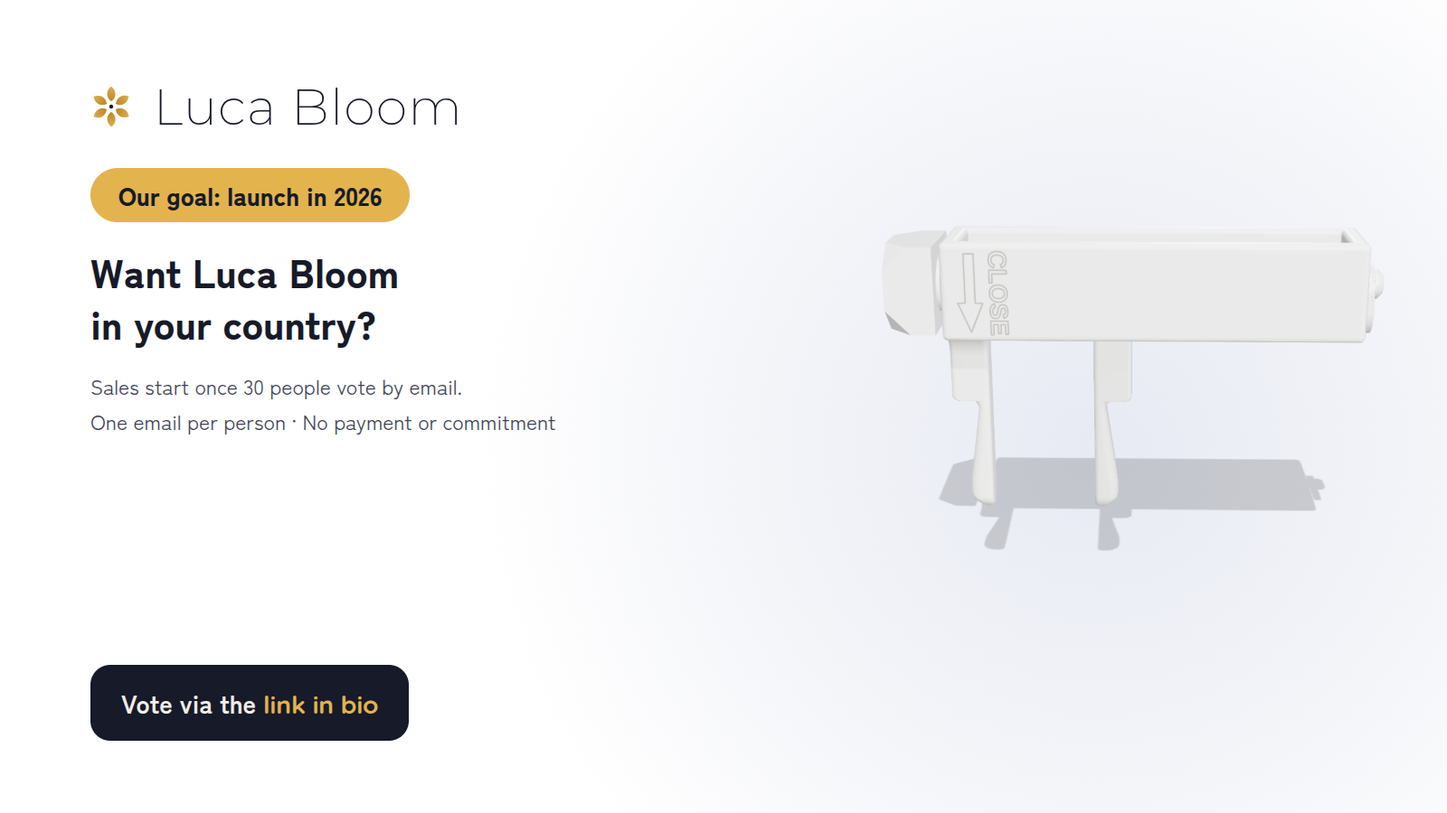
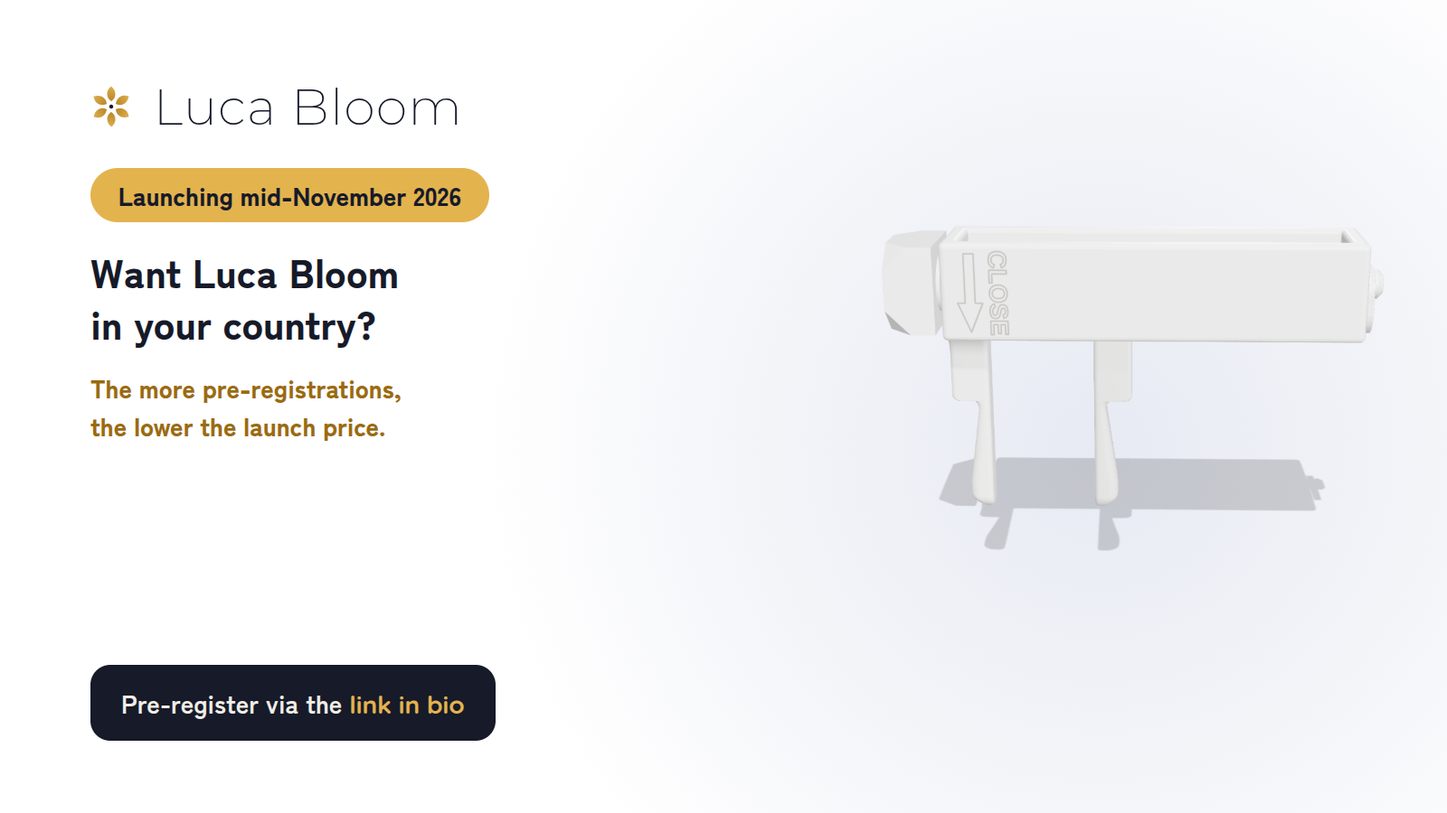
発売前LP：メールアプリが開かない環境向けに Gmail・Outlook・アドレスを併記し、「登録が多いほど発売価格が下がる」を目立つ一文に。告知画像も同じ文言に
Claude-Session: https://claude.ai/code/session_016YenGTG3x62jvD6ZRQeA6d

Changed region(s): [[0.0625, 0.4667, 0.375, 0.56], [0.0625, 0.8089, 0.3438, 0.9333], [0.0625, 0.1867, 0.3438, 0.28]]

diff --git a/ca/fr/index.html b/ca/fr/index.html
@@ -3,7 +3,7 @@
 <head>
 <meta charset="utf-8">
 <meta name="viewport" content="width=device-width, initial-scale=1, viewport-fit=cover">
-<meta http-equiv="Content-Security-Policy" content="default-src 'none'; script-src 'self'; style-src 'self' 'sha256-jr+99oMVcAtKtIUlC/3aKn5EhZTkRbJaXBN0lEQV9qo=' 'sha256-TT/tbT92qH6UzA/f+xUOgWA0x57Y7BPZlE8Y8ElzfiY=' 'sha256-i47gCdfb3YEuL87xKfQ+rVjdfSb1UfRIlp/G7Hq3QyM='; img-src 'self'; font-src 'self'; connect-src 'self'; manifest-src 'self'; media-src 'none'; frame-src 'none'; worker-src 'none'; object-src 'none'; base-uri 'none'; form-action 'none'; upgrade-insecure-requests; require-trusted-types-for 'script'; trusted-types 'none'">
+<meta http-equiv="Content-Security-Policy" content="default-src 'none'; script-src 'self'; style-src 'self' 'sha256-jr+99oMVcAtKtIUlC/3aKn5EhZTkRbJaXBN0lEQV9qo=' 'sha256-TT/tbT92qH6UzA/f+xUOgWA0x57Y7BPZlE8Y8ElzfiY=' 'sha256-vydwBAU0UPAaQI11OmLRjDPcPjJRwpMx7loPP8yBWZM='; img-src 'self'; font-src 'self'; connect-src 'self'; manifest-src 'self'; media-src 'none'; frame-src 'none'; worker-src 'none'; object-src 'none'; base-uri 'none'; form-action 'none'; upgrade-insecure-requests; require-trusted-types-for 'script'; trusted-types 'none'">
 <meta name="referrer" content="strict-origin-when-cross-origin">
 <title>Luca Bloom | Outil de soin du prépuce, ouverture jusqu’à 70 mm</title>
 <meta name="description" content="Luca Bloom est un outil de soin du prépuce. Tournez la molette : les bras s’ouvrent en douceur jusqu’à 70 mm et restent exactement là où vous vous arrêtez, même quand vous lâchez. Emballage discret. Sur Amazon.ca dès la mi-novembre 2026.">
@@ -285,7 +285,11 @@ body{letter-spacing:.01em}
 .wl-bar::-moz-progress-bar{background:var(--gold);border-radius:99px}
 .wl-n{margin:0;display:flex;justify-content:space-between;gap:10px;flex-wrap:wrap;font-size:12.5px;color:var(--on-navy-muted)}
 .wl-n span:first-child{font-weight:700;color:var(--on-navy)}
-.wl-note{margin:12px 0 0;font-size:13px;line-height:1.7;color:var(--on-navy-muted);text-align:left}
+.wl-deal{margin:14px 0 0;font-size:17px;line-height:1.5;font-weight:900;color:var(--gold)}
+.wl-note{margin:6px 0 0;font-size:12.5px;line-height:1.6;color:var(--on-navy-muted)}
+.wl-alt{margin:10px 0 0;font-size:12.5px;line-height:1.7;color:var(--on-navy-muted);text-align:center}
+.wl-alt a{color:var(--on-navy);font-weight:700;text-decoration:underline;text-underline-offset:2px}
+.wl-addr{font-family:var(--font-en);font-weight:700;color:var(--on-navy);-webkit-user-select:all;user-select:all;overflow-wrap:anywhere}
 .wl-share{margin-top:14px;padding-top:12px;border-top:1px solid var(--navy-line)}
 .wl-share p{margin:0;font-size:13.5px;font-weight:700;color:var(--on-navy)}
 .wl-share div{margin-top:8px;display:flex;flex-wrap:wrap;justify-content:center;gap:8px}
@@ -359,11 +363,13 @@ body{letter-spacing:.01em}
         <p class="wl-count"><b>0</b><span>/ 30 préinscrits</span></p>
         <progress class="wl-bar" max="30" value="0" aria-label="0 préinscrits sur 30">0 préinscrits sur 30</progress>
         <p class="wl-n"><span>Encore 30 pour notre objectif avant le lancement</span><span>Nombre au 6 octobre 2026</span></p>
-        <p class="wl-note">Luca Bloom sera en vente sur Amazon aux États-Unis, au Canada et au Mexique à la mi-novembre 2026. Envoyez-nous un seul courriel pour vous préinscrire : nous vous écrirons une fois, au lancement. Aucun paiement ni engagement.</p>
+        <p class="wl-deal">Plus il y a de préinscriptions, plus le prix de lancement baisse.</p>
+        <p class="wl-note">Un courriel par personne · Aucun paiement ni engagement</p>
         <div class="wl-share"><p>Vous connaissez quelqu’un que ça aiderait? Partagez cette page</p><div><a href="https://twitter.com/intent/tweet?text=Luca%20Bloom%20arrive%20aux%20%C3%89tats-Unis%2C%20au%20Canada%20et%20au%20Mexique%20%C3%A0%20la%20mi-novembre.%20Pr%C3%A9inscription%20ici%C2%A0%3A&amp;url=https%3A%2F%2Fluca-bloom.com%2Fca%2Ffr%2F" target="_blank" rel="noopener">X</a><a href="https://www.facebook.com/sharer/sharer.php?u=https%3A%2F%2Fluca-bloom.com%2Fca%2Ffr%2F" target="_blank" rel="noopener">Facebook</a><a href="https://wa.me/?text=Luca%20Bloom%20arrive%20aux%20%C3%89tats-Unis%2C%20au%20Canada%20et%20au%20Mexique%20%C3%A0%20la%20mi-novembre.%20Pr%C3%A9inscription%20ici%C2%A0%3A%20https%3A%2F%2Fluca-bloom.com%2Fca%2Ffr%2F" target="_blank" rel="noopener">WhatsApp</a><a href="mailto:?subject=Luca%20Bloom&amp;body=Luca%20Bloom%20arrive%20aux%20%C3%89tats-Unis%2C%20au%20Canada%20et%20au%20Mexique%20%C3%A0%20la%20mi-novembre.%20Pr%C3%A9inscription%20ici%C2%A0%3A%20https%3A%2F%2Fluca-bloom.com%2Fca%2Ffr%2F">Courriel</a></div></div>
       </div>
       <a class="cta js-buy" href="mailto:lucabloom65@gmail.com?subject=Je%20veux%20Luca%20Bloom%20(Canada)&amp;body=Merci%20de%20m%E2%80%99avertir%20quand%20Luca%20Bloom%20sera%20en%20vente.%0A%0APays%C2%A0%3A%20Canada">Se préinscrire par courriel
         <svg viewBox="0 0 20 20" aria-hidden="true"><path d="M7 4l6 6-6 6" fill="none" stroke="currentColor" stroke-width="2.6" stroke-linecap="round" stroke-linejoin="round"/></svg></a>
+      <p class="wl-alt">Votre application de courriel ne s’ouvre pas? Utilisez <a href="https://mail.google.com/mail/?view=cm&amp;fs=1&amp;to=lucabloom65@gmail.com&amp;su=Je%20veux%20Luca%20Bloom%20(Canada)&amp;body=Merci%20de%20m%E2%80%99avertir%20quand%20Luca%20Bloom%20sera%20en%20vente.%0A%0APays%C2%A0%3A%20Canada" target="_blank" rel="noopener">Gmail</a> · <a href="https://outlook.live.com/mail/0/deeplink/compose?to=lucabloom65@gmail.com&amp;subject=Je%20veux%20Luca%20Bloom%20(Canada)&amp;body=Merci%20de%20m%E2%80%99avertir%20quand%20Luca%20Bloom%20sera%20en%20vente.%0A%0APays%C2%A0%3A%20Canada" target="_blank" rel="noopener">Outlook</a> ou écrivez à <span class="wl-addr">lucabloom65@gmail.com</span></p>
     </div>
   </div>
 </header>
@@ -684,10 +690,13 @@ body{letter-spacing:.01em}
         <p class="wl-count"><b>0</b><span>/ 30 préinscrits</span></p>
         <progress class="wl-bar" max="30" value="0" aria-label="0 préinscrits sur 30">0 préinscrits sur 30</progress>
         <p class="wl-n"><span>Encore 30 pour notre objectif avant le lancement</span><span>Nombre au 6 octobre 2026</span></p>
+        <p class="wl-deal">Plus il y a de préinscriptions, plus le prix de lancement baisse.</p>
+        <p class="wl-note">Un courriel par personne · Aucun paiement ni engagement</p>
         <div class="wl-share"><p>Vous connaissez quelqu’un que ça aiderait? Partagez cette page</p><div><a href="https://twitter.com/intent/tweet?text=Luca%20Bloom%20arrive%20aux%20%C3%89tats-Unis%2C%20au%20Canada%20et%20au%20Mexique%20%C3%A0%20la%20mi-novembre.%20Pr%C3%A9inscription%20ici%C2%A0%3A&amp;url=https%3A%2F%2Fluca-bloom.com%2Fca%2Ffr%2F" target="_blank" rel="noopener">X</a><a href="https://www.facebook.com/sharer/sharer.php?u=https%3A%2F%2Fluca-bloom.com%2Fca%2Ffr%2F" target="_blank" rel="noopener">Facebook</a><a href="https://wa.me/?text=Luca%20Bloom%20arrive%20aux%20%C3%89tats-Unis%2C%20au%20Canada%20et%20au%20Mexique%20%C3%A0%20la%20mi-novembre.%20Pr%C3%A9inscription%20ici%C2%A0%3A%20https%3A%2F%2Fluca-bloom.com%2Fca%2Ffr%2F" target="_blank" rel="noopener">WhatsApp</a><a href="mailto:?subject=Luca%20Bloom&amp;body=Luca%20Bloom%20arrive%20aux%20%C3%89tats-Unis%2C%20au%20Canada%20et%20au%20Mexique%20%C3%A0%20la%20mi-novembre.%20Pr%C3%A9inscription%20ici%C2%A0%3A%20https%3A%2F%2Fluca-bloom.com%2Fca%2Ffr%2F">Courriel</a></div></div>
       </div>
       <a class="cta js-buy" href="mailto:lucabloom65@gmail.com?subject=Je%20veux%20Luca%20Bloom%20(Canada)&amp;body=Merci%20de%20m%E2%80%99avertir%20quand%20Luca%20Bloom%20sera%20en%20vente.%0A%0APays%C2%A0%3A%20Canada">Se préinscrire par courriel
         <svg viewBox="0 0 20 20" aria-hidden="true"><path d="M7 4l6 6-6 6" fill="none" stroke="currentColor" stroke-width="2.6" stroke-linecap="round" stroke-linejoin="round"/></svg></a>
+      <p class="wl-alt">Votre application de courriel ne s’ouvre pas? Utilisez <a href="https://mail.google.com/mail/?view=cm&amp;fs=1&amp;to=lucabloom65@gmail.com&amp;su=Je%20veux%20Luca%20Bloom%20(Canada)&amp;body=Merci%20de%20m%E2%80%99avertir%20quand%20Luca%20Bloom%20sera%20en%20vente.%0A%0APays%C2%A0%3A%20Canada" target="_blank" rel="noopener">Gmail</a> · <a href="https://outlook.live.com/mail/0/deeplink/compose?to=lucabloom65@gmail.com&amp;subject=Je%20veux%20Luca%20Bloom%20(Canada)&amp;body=Merci%20de%20m%E2%80%99avertir%20quand%20Luca%20Bloom%20sera%20en%20vente.%0A%0APays%C2%A0%3A%20Canada" target="_blank" rel="noopener">Outlook</a> ou écrivez à <span class="wl-addr">lucabloom65@gmail.com</span></p>
     </div>
   </div>
 </section>

diff --git a/mx/index.html b/mx/index.html
@@ -3,7 +3,7 @@
 <head>
 <meta charset="utf-8">
 <meta name="viewport" content="width=device-width, initial-scale=1, viewport-fit=cover">
-<meta http-equiv="Content-Security-Policy" content="default-src 'none'; script-src 'self'; style-src 'self' 'sha256-jr+99oMVcAtKtIUlC/3aKn5EhZTkRbJaXBN0lEQV9qo=' 'sha256-TT/tbT92qH6UzA/f+xUOgWA0x57Y7BPZlE8Y8ElzfiY=' 'sha256-i47gCdfb3YEuL87xKfQ+rVjdfSb1UfRIlp/G7Hq3QyM='; img-src 'self'; font-src 'self'; connect-src 'self'; manifest-src 'self'; media-src 'none'; frame-src 'none'; worker-src 'none'; object-src 'none'; base-uri 'none'; form-action 'none'; upgrade-insecure-requests; require-trusted-types-for 'script'; trusted-types 'none'">
+<meta http-equiv="Content-Security-Policy" content="default-src 'none'; script-src 'self'; style-src 'self' 'sha256-jr+99oMVcAtKtIUlC/3aKn5EhZTkRbJaXBN0lEQV9qo=' 'sha256-TT/tbT92qH6UzA/f+xUOgWA0x57Y7BPZlE8Y8ElzfiY=' 'sha256-vydwBAU0UPAaQI11OmLRjDPcPjJRwpMx7loPP8yBWZM='; img-src 'self'; font-src 'self'; connect-src 'self'; manifest-src 'self'; media-src 'none'; frame-src 'none'; worker-src 'none'; object-src 'none'; base-uri 'none'; form-action 'none'; upgrade-insecure-requests; require-trusted-types-for 'script'; trusted-types 'none'">
 <meta name="referrer" content="strict-origin-when-cross-origin">
 <title>Luca Bloom | Cuidado del prepucio, apertura de hasta 70 mm</title>
 <meta name="description" content="Luca Bloom es una herramienta para el cuidado del prepucio. Gira la manija y los brazos se abren con suavidad hasta 70 mm, y se quedan justo donde te detienes, aunque los sueltes. Empaque discreto. En Amazon México desde mediados de noviembre de 2026.">
@@ -285,7 +285,11 @@ body{letter-spacing:.01em}
 .wl-bar::-moz-progress-bar{background:var(--gold);border-radius:99px}
 .wl-n{margin:0;display:flex;justify-content:space-between;gap:10px;flex-wrap:wrap;font-size:12.5px;color:var(--on-navy-muted)}
 .wl-n span:first-child{font-weight:700;color:var(--on-navy)}
-.wl-note{margin:12px 0 0;font-size:13px;line-height:1.7;color:var(--on-navy-muted);text-align:left}
+.wl-deal{margin:14px 0 0;font-size:17px;line-height:1.5;font-weight:900;color:var(--gold)}
+.wl-note{margin:6px 0 0;font-size:12.5px;line-height:1.6;color:var(--on-navy-muted)}
+.wl-alt{margin:10px 0 0;font-size:12.5px;line-height:1.7;color:var(--on-navy-muted);text-align:center}
+.wl-alt a{color:var(--on-navy);font-weight:700;text-decoration:underline;text-underline-offset:2px}
+.wl-addr{font-family:var(--font-en);font-weight:700;color:var(--on-navy);-webkit-user-select:all;user-select:all;overflow-wrap:anywhere}
 .wl-share{margin-top:14px;padding-top:12px;border-top:1px solid var(--navy-line)}
 .wl-share p{margin:0;font-size:13.5px;font-weight:700;color:var(--on-navy)}
 .wl-share div{margin-top:8px;display:flex;flex-wrap:wrap;justify-content:center;gap:8px}
@@ -359,11 +363,13 @@ body{letter-spacing:.01em}
         <p class="wl-count"><b>0</b><span>/ 30 preregistros</span></p>
         <progress class="wl-bar" max="30" value="0" aria-label="0 de 30 preregistros">0 de 30 preregistros</progress>
         <p class="wl-n"><span>Faltan 30 para nuestra meta antes del lanzamiento</span><span>Conteo al 6 de octubre de 2026</span></p>
-        <p class="wl-note">Luca Bloom sale a la venta en Amazon en Estados Unidos, Canadá y México a mediados de noviembre de 2026. Mándanos un solo correo para preregistrarte y te avisaremos una sola vez cuando salga a la venta. Sin pago ni compromiso.</p>
+        <p class="wl-deal">Entre más preregistros, más bajo el precio de lanzamiento.</p>
+        <p class="wl-note">Un correo por persona · Sin pago ni compromiso</p>
         <div class="wl-share"><p>¿Conoces a alguien a quien le sirva? Comparte esta página</p><div><a href="https://twitter.com/intent/tweet?text=Luca%20Bloom%20llega%20a%20Estados%20Unidos%2C%20Canad%C3%A1%20y%20M%C3%A9xico%20a%20mediados%20de%20noviembre.%20Prereg%C3%ADstrate%20aqu%C3%AD%3A&amp;url=https%3A%2F%2Fluca-bloom.com%2Fmx%2F" target="_blank" rel="noopener">X</a><a href="https://www.facebook.com/sharer/sharer.php?u=https%3A%2F%2Fluca-bloom.com%2Fmx%2F" target="_blank" rel="noopener">Facebook</a><a href="https://wa.me/?text=Luca%20Bloom%20llega%20a%20Estados%20Unidos%2C%20Canad%C3%A1%20y%20M%C3%A9xico%20a%20mediados%20de%20noviembre.%20Prereg%C3%ADstrate%20aqu%C3%AD%3A%20https%3A%2F%2Fluca-bloom.com%2Fmx%2F" target="_blank" rel="noopener">WhatsApp</a><a href="mailto:?subject=Luca%20Bloom&amp;body=Luca%20Bloom%20llega%20a%20Estados%20Unidos%2C%20Canad%C3%A1%20y%20M%C3%A9xico%20a%20mediados%20de%20noviembre.%20Prereg%C3%ADstrate%20aqu%C3%AD%3A%20https%3A%2F%2Fluca-bloom.com%2Fmx%2F">Correo</a></div></div>
       </div>
       <a class="cta js-buy" href="mailto:lucabloom65@gmail.com?subject=Quiero%20Luca%20Bloom%20(M%C3%A9xico)&amp;body=Av%C3%ADsenme%20cuando%20Luca%20Bloom%20salga%20a%20la%20venta.%0A%0APa%C3%ADs%3A%20M%C3%A9xico">Preregístrate por correo
         <svg viewBox="0 0 20 20" aria-hidden="true"><path d="M7 4l6 6-6 6" fill="none" stroke="currentColor" stroke-width="2.6" stroke-linecap="round" stroke-linejoin="round"/></svg></a>
+      <p class="wl-alt">¿No se abre tu app de correo? Usa <a href="https://mail.google.com/mail/?view=cm&amp;fs=1&amp;to=lucabloom65@gmail.com&amp;su=Quiero%20Luca%20Bloom%20(M%C3%A9xico)&amp;body=Av%C3%ADsenme%20cuando%20Luca%20Bloom%20salga%20a%20la%20venta.%0A%0APa%C3%ADs%3A%20M%C3%A9xico" target="_blank" rel="noopener">Gmail</a> · <a href="https://outlook.live.com/mail/0/deeplink/compose?to=lucabloom65@gmail.com&amp;subject=Quiero%20Luca%20Bloom%20(M%C3%A9xico)&amp;body=Av%C3%ADsenme%20cuando%20Luca%20Bloom%20salga%20a%20la%20venta.%0A%0APa%C3%ADs%3A%20M%C3%A9xico" target="_blank" rel="noopener">Outlook</a> o escribe a <span class="wl-addr">lucabloom65@gmail.com</span></p>
     </div>
   </div>
 </header>
@@ -684,10 +690,13 @@ body{letter-spacing:.01em}
         <p class="wl-count"><b>0</b><span>/ 30 preregistros</span></p>
         <progress class="wl-bar" max="30" value="0" aria-label="0 de 30 preregistros">0 de 30 preregistros</progress>
         <p class="wl-n"><span>Faltan 30 para nuestra meta antes del lanzamiento</span><span>Conteo al 6 de octubre de 2026</span></p>
+        <p class="wl-deal">Entre más preregistros, más bajo el precio de lanzamiento.</p>
+        <p class="wl-note">Un correo por persona · Sin pago ni compromiso</p>
         <div class="wl-share"><p>¿Conoces a alguien a quien le sirva? Comparte esta página</p><div><a href="https://twitter.com/intent/tweet?text=Luca%20Bloom%20llega%20a%20Estados%20Unidos%2C%20Canad%C3%A1%20y%20M%C3%A9xico%20a%20mediados%20de%20noviembre.%20Prereg%C3%ADstrate%20aqu%C3%AD%3A&amp;url=https%3A%2F%2Fluca-bloom.com%2Fmx%2F" target="_blank" rel="noopener">X</a><a href="https://www.facebook.com/sharer/sharer.php?u=https%3A%2F%2Fluca-bloom.com%2Fmx%2F" target="_blank" rel="noopener">Facebook</a><a href="https://wa.me/?text=Luca%20Bloom%20llega%20a%20Estados%20Unidos%2C%20Canad%C3%A1%20y%20M%C3%A9xico%20a%20mediados%20de%20noviembre.%20Prereg%C3%ADstrate%20aqu%C3%AD%3A%20https%3A%2F%2Fluca-bloom.com%2Fmx%2F" target="_blank" rel="noopener">WhatsApp</a><a href="mailto:?subject=Luca%20Bloom&amp;body=Luca%20Bloom%20llega%20a%20Estados%20Unidos%2C%20Canad%C3%A1%20y%20M%C3%A9xico%20a%20mediados%20de%20noviembre.%20Prereg%C3%ADstrate%20aqu%C3%AD%3A%20https%3A%2F%2Fluca-bloom.com%2Fmx%2F">Correo</a></div></div>
       </div>
       <a class="cta js-buy" href="mailto:lucabloom65@gmail.com?subject=Quiero%20Luca%20Bloom%20(M%C3%A9xico)&amp;body=Av%C3%ADsenme%20cuando%20Luca%20Bloom%20salga%20a%20la%20venta.%0A%0APa%C3%ADs%3A%20M%C3%A9xico">Preregístrate por correo
         <svg viewBox="0 0 20 20" aria-hidden="true"><path d="M7 4l6 6-6 6" fill="none" stroke="currentColor" stroke-width="2.6" stroke-linecap="round" stroke-linejoin="round"/></svg></a>
+      <p class="wl-alt">¿No se abre tu app de correo? Usa <a href="https://mail.google.com/mail/?view=cm&amp;fs=1&amp;to=lucabloom65@gmail.com&amp;su=Quiero%20Luca%20Bloom%20(M%C3%A9xico)&amp;body=Av%C3%ADsenme%20cuando%20Luca%20Bloom%20salga%20a%20la%20venta.%0A%0APa%C3%ADs%3A%20M%C3%A9xico" target="_blank" rel="noopener">Gmail</a> · <a href="https://outlook.live.com/mail/0/deeplink/compose?to=lucabloom65@gmail.com&amp;subject=Quiero%20Luca%20Bloom%20(M%C3%A9xico)&amp;body=Av%C3%ADsenme%20cuando%20Luca%20Bloom%20salga%20a%20la%20venta.%0A%0APa%C3%ADs%3A%20M%C3%A9xico" target="_blank" rel="noopener">Outlook</a> o escribe a <span class="wl-addr">lucabloom65@gmail.com</span></p>
     </div>
   </div>
 </section>

diff --git a/us/index.html b/us/index.html
@@ -3,7 +3,7 @@
 <head>
 <meta charset="utf-8">
 <meta name="viewport" content="width=device-width, initial-scale=1, viewport-fit=cover">
-<meta http-equiv="Content-Security-Policy" content="default-src 'none'; script-src 'self'; style-src 'self' 'sha256-jr+99oMVcAtKtIUlC/3aKn5EhZTkRbJaXBN0lEQV9qo=' 'sha256-TT/tbT92qH6UzA/f+xUOgWA0x57Y7BPZlE8Y8ElzfiY=' 'sha256-i47gCdfb3YEuL87xKfQ+rVjdfSb1UfRIlp/G7Hq3QyM='; img-src 'self'; font-src 'self'; connect-src 'self'; manifest-src 'self'; media-src 'none'; frame-src 'none'; worker-src 'none'; object-src 'none'; base-uri 'none'; form-action 'none'; upgrade-insecure-requests; require-trusted-types-for 'script'; trusted-types 'none'">
+<meta http-equiv="Content-Security-Policy" content="default-src 'none'; script-src 'self'; style-src 'self' 'sha256-jr+99oMVcAtKtIUlC/3aKn5EhZTkRbJaXBN0lEQV9qo=' 'sha256-TT/tbT92qH6UzA/f+xUOgWA0x57Y7BPZlE8Y8ElzfiY=' 'sha256-vydwBAU0UPAaQI11OmLRjDPcPjJRwpMx7loPP8yBWZM='; img-src 'self'; font-src 'self'; connect-src 'self'; manifest-src 'self'; media-src 'none'; frame-src 'none'; worker-src 'none'; object-src 'none'; base-uri 'none'; form-action 'none'; upgrade-insecure-requests; require-trusted-types-for 'script'; trusted-types 'none'">
 <meta name="referrer" content="strict-origin-when-cross-origin">
 <title>Luca Bloom | Foreskin care tool that opens up to 70 mm (2.8 in)</title>
 <meta name="description" content="Luca Bloom is a foreskin care tool. Turn the handle and the arms open smoothly up to 70 mm (2.8 in), then stay exactly where you stop, even when you let go. Discreet packaging. On Amazon.com from mid-November 2026.">
@@ -285,7 +285,11 @@ body{letter-spacing:.01em}
 .wl-bar::-moz-progress-bar{background:var(--gold);border-radius:99px}
 .wl-n{margin:0;display:flex;justify-content:space-between;gap:10px;flex-wrap:wrap;font-size:12.5px;color:var(--on-navy-muted)}
 .wl-n span:first-child{font-weight:700;color:var(--on-navy)}
-.wl-note{margin:12px 0 0;font-size:13px;line-height:1.7;color:var(--on-navy-muted);text-align:left}
+.wl-deal{margin:14px 0 0;font-size:17px;line-height:1.5;font-weight:900;color:var(--gold)}
+.wl-note{margin:6px 0 0;font-size:12.5px;line-height:1.6;color:var(--on-navy-muted)}
+.wl-alt{margin:10px 0 0;font-size:12.5px;line-height:1.7;color:var(--on-navy-muted);text-align:center}
+.wl-alt a{color:var(--on-navy);font-weight:700;text-decoration:underline;text-underline-offset:2px}
+.wl-addr{font-family:var(--font-en);font-weight:700;color:var(--on-navy);-webkit-user-select:all;user-select:all;overflow-wrap:anywhere}
 .wl-share{margin-top:14px;padding-top:12px;border-top:1px solid var(--navy-line)}
 .wl-share p{margin:0;font-size:13.5px;font-weight:700;color:var(--on-navy)}
 .wl-share div{margin-top:8px;display:flex;flex-wrap:wrap;justify-content:center;gap:8px}
@@ -359,11 +363,13 @@ body{letter-spacing:.01em}
         <p class="wl-count"><b>0</b><span>/ 30 pre-registered</span></p>
         <progress class="wl-bar" max="30" value="0" aria-label="0 of 30 pre-registered">0 of 30 pre-registered</progress>
         <p class="wl-n"><span>30 more to our pre-launch goal</span><span>Count as of October 6, 2026</span></p>
-        <p class="wl-note">Luca Bloom goes on sale on Amazon in the United States, Canada and Mexico in mid-November 2026. Send us one email to pre-register, and we will email you once when it goes on sale. No payment or commitment.</p>
+        <p class="wl-deal">The more pre-registrations, the lower the launch price.</p>
+        <p class="wl-note">One email per person · No payment or commitment</p>
         <div class="wl-share"><p>Know someone who needs this? Share this page</p><div><a href="https://twitter.com/intent/tweet?text=Luca%20Bloom%20launches%20in%20the%20US%2C%20Canada%20and%20Mexico%20in%20mid-November.%20Pre-register%20here%3A&amp;url=https%3A%2F%2Fluca-bloom.com%2Fus%2F" target="_blank" rel="noopener">X</a><a href="https://www.facebook.com/sharer/sharer.php?u=https%3A%2F%2Fluca-bloom.com%2Fus%2F" target="_blank" rel="noopener">Facebook</a><a href="https://wa.me/?text=Luca%20Bloom%20launches%20in%20the%20US%2C%20Canada%20and%20Mexico%20in%20mid-November.%20Pre-register%20here%3A%20https%3A%2F%2Fluca-bloom.com%2Fus%2F" target="_blank" rel="noopener">WhatsApp</a><a href="mailto:?subject=Luca%20Bloom&amp;body=Luca%20Bloom%20launches%20in%20the%20US%2C%20Canada%20and%20Mexico%20in%20mid-November.%20Pre-register%20here%3A%20https%3A%2F%2Fluca-bloom.com%2Fus%2F">Email</a></div></div>
       </div>
       <a class="cta js-buy" href="mailto:lucabloom65@gmail.com?subject=I%20want%20Luca%20Bloom%20(United%20States)&amp;body=Please%20let%20me%20know%20when%20Luca%20Bloom%20goes%20on%20sale.%0A%0ACountry%3A%20United%20States">Pre-register by email
         <svg viewBox="0 0 20 20" aria-hidden="true"><path d="M7 4l6 6-6 6" fill="none" stroke="currentColor" stroke-width="2.6" stroke-linecap="round" stroke-linejoin="round"/></svg></a>
+      <p class="wl-alt">Email app not opening? Use <a href="https://mail.google.com/mail/?view=cm&amp;fs=1&amp;to=lucabloom65@gmail.com&amp;su=I%20want%20Luca%20Bloom%20(United%20States)&amp;body=Please%20let%20me%20know%20when%20Luca%20Bloom%20goes%20on%20sale.%0A%0ACountry%3A%20United%20States" target="_blank" rel="noopener">Gmail</a> · <a href="https://outlook.live.com/mail/0/deeplink/compose?to=lucabloom65@gmail.com&amp;subject=I%20want%20Luca%20Bloom%20(United%20States)&amp;body=Please%20let%20me%20know%20when%20Luca%20Bloom%20goes%20on%20sale.%0A%0ACountry%3A%20United%20States" target="_blank" rel="noopener">Outlook</a> or write to <span class="wl-addr">lucabloom65@gmail.com</span></p>
     </div>
   </div>
 </header>
@@ -684,10 +690,13 @@ body{letter-spacing:.01em}
         <p class="wl-count"><b>0</b><span>/ 30 pre-registered</span></p>
         <progress class="wl-bar" max="30" value="0" aria-label="0 of 30 pre-registered">0 of 30 pre-registered</progress>
         <p class="wl-n"><span>30 more to our pre-launch goal</span><span>Count as of October 6, 2026</span></p>
+        <p class="wl-deal">The more pre-registrations, the lower the launch price.</p>
+        <p class="wl-note">One email per person · No payment or commitment</p>
         <div class="wl-share"><p>Know someone who needs this? Share this page</p><div><a href="https://twitter.com/intent/tweet?text=Luca%20Bloom%20launches%20in%20the%20US%2C%20Canada%20and%20Mexico%20in%20mid-November.%20Pre-register%20here%3A&amp;url=https%3A%2F%2Fluca-bloom.com%2Fus%2F" target="_blank" rel="noopener">X</a><a href="https://www.facebook.com/sharer/sharer.php?u=https%3A%2F%2Fluca-bloom.com%2Fus%2F" target="_blank" rel="noopener">Facebook</a><a href="https://wa.me/?text=Luca%20Bloom%20launches%20in%20the%20US%2C%20Canada%20and%20Mexico%20in%20mid-November.%20Pre-register%20here%3A%20https%3A%2F%2Fluca-bloom.com%2Fus%2F" target="_blank" rel="noopener">WhatsApp</a><a href="mailto:?subject=Luca%20Bloom&amp;body=Luca%20Bloom%20launches%20in%20the%20US%2C%20Canada%20and%20Mexico%20in%20mid-November.%20Pre-register%20here%3A%20https%3A%2F%2Fluca-bloom.com%2Fus%2F">Email</a></div></div>
       </div>
       <a class="cta js-buy" href="mailto:lucabloom65@gmail.com?subject=I%20want%20Luca%20Bloom%20(United%20States)&amp;body=Please%20let%20me%20know%20when%20Luca%20Bloom%20goes%20on%20sale.%0A%0ACountry%3A%20United%20States">Pre-register by email
         <svg viewBox="0 0 20 20" aria-hidden="true"><path d="M7 4l6 6-6 6" fill="none" stroke="currentColor" stroke-width="2.6" stroke-linecap="round" stroke-linejoin="round"/></svg></a>
+      <p class="wl-alt">Email app not opening? Use <a href="https://mail.google.com/mail/?view=cm&amp;fs=1&amp;to=lucabloom65@gmail.com&amp;su=I%20want%20Luca%20Bloom%20(United%20States)&amp;body=Please%20let%20me%20know%20when%20Luca%20Bloom%20goes%20on%20sale.%0A%0ACountry%3A%20United%20States" target="_blank" rel="noopener">Gmail</a> · <a href="https://outlook.live.com/mail/0/deeplink/compose?to=lucabloom65@gmail.com&amp;subject=I%20want%20Luca%20Bloom%20(United%20States)&amp;body=Please%20let%20me%20know%20when%20Luca%20Bloom%20goes%20on%20sale.%0A%0ACountry%3A%20United%20States" target="_blank" rel="noopener">Outlook</a> or write to <span class="wl-addr">lucabloom65@gmail.com</span></p>
     </div>
   </div>
 </section>

diff --git a/ca/index.html b/ca/index.html
@@ -3,7 +3,7 @@
 <head>
 <meta charset="utf-8">
 <meta name="viewport" content="width=device-width, initial-scale=1, viewport-fit=cover">
-<meta http-equiv="Content-Security-Policy" content="default-src 'none'; script-src 'self'; style-src 'self' 'sha256-jr+99oMVcAtKtIUlC/3aKn5EhZTkRbJaXBN0lEQV9qo=' 'sha256-TT/tbT92qH6UzA/f+xUOgWA0x57Y7BPZlE8Y8ElzfiY=' 'sha256-i47gCdfb3YEuL87xKfQ+rVjdfSb1UfRIlp/G7Hq3QyM='; img-src 'self'; font-src 'self'; connect-src 'self'; manifest-src 'self'; media-src 'none'; frame-src 'none'; worker-src 'none'; object-src 'none'; base-uri 'none'; form-action 'none'; upgrade-insecure-requests; require-trusted-types-for 'script'; trusted-types 'none'">
+<meta http-equiv="Content-Security-Policy" content="default-src 'none'; script-src 'self'; style-src 'self' 'sha256-jr+99oMVcAtKtIUlC/3aKn5EhZTkRbJaXBN0lEQV9qo=' 'sha256-TT/tbT92qH6UzA/f+xUOgWA0x57Y7BPZlE8Y8ElzfiY=' 'sha256-vydwBAU0UPAaQI11OmLRjDPcPjJRwpMx7loPP8yBWZM='; img-src 'self'; font-src 'self'; connect-src 'self'; manifest-src 'self'; media-src 'none'; frame-src 'none'; worker-src 'none'; object-src 'none'; base-uri 'none'; form-action 'none'; upgrade-insecure-requests; require-trusted-types-for 'script'; trusted-types 'none'">
 <meta name="referrer" content="strict-origin-when-cross-origin">
 <title>Luca Bloom | Foreskin care tool that opens up to 70 mm</title>
 <meta name="description" content="Luca Bloom is a foreskin care tool. Turn the handle and the arms open smoothly up to 70 mm, then stay exactly where you stop, even when you let go. Discreet packaging. On Amazon.ca from mid-November 2026.">
@@ -285,7 +285,11 @@ body{letter-spacing:.01em}
 .wl-bar::-moz-progress-bar{background:var(--gold);border-radius:99px}
 .wl-n{margin:0;display:flex;justify-content:space-between;gap:10px;flex-wrap:wrap;font-size:12.5px;color:var(--on-navy-muted)}
 .wl-n span:first-child{font-weight:700;color:var(--on-navy)}
-.wl-note{margin:12px 0 0;font-size:13px;line-height:1.7;color:var(--on-navy-muted);text-align:left}
+.wl-deal{margin:14px 0 0;font-size:17px;line-height:1.5;font-weight:900;color:var(--gold)}
+.wl-note{margin:6px 0 0;font-size:12.5px;line-height:1.6;color:var(--on-navy-muted)}
+.wl-alt{margin:10px 0 0;font-size:12.5px;line-height:1.7;color:var(--on-navy-muted);text-align:center}
+.wl-alt a{color:var(--on-navy);font-weight:700;text-decoration:underline;text-underline-offset:2px}
+.wl-addr{font-family:var(--font-en);font-weight:700;color:var(--on-navy);-webkit-user-select:all;user-select:all;overflow-wrap:anywhere}
 .wl-share{margin-top:14px;padding-top:12px;border-top:1px solid var(--navy-line)}
 .wl-share p{margin:0;font-size:13.5px;font-weight:700;color:var(--on-navy)}
 .wl-share div{margin-top:8px;display:flex;flex-wrap:wrap;justify-content:center;gap:8px}
@@ -359,11 +363,13 @@ body{letter-spacing:.01em}
         <p class="wl-count"><b>0</b><span>/ 30 pre-registered</span></p>
         <progress class="wl-bar" max="30" value="0" aria-label="0 of 30 pre-registered">0 of 30 pre-registered</progress>
         <p class="wl-n"><span>30 more to our pre-launch goal</span><span>Count as of October 6, 2026</span></p>
-        <p class="wl-note">Luca Bloom goes on sale on Amazon in the United States, Canada and Mexico in mid-November 2026. Send us one email to pre-register, and we will email you once when it goes on sale. No payment or commitment.</p>
+        <p class="wl-deal">The more pre-registrations, the lower the launch price.</p>
+        <p class="wl-note">One email per person · No payment or commitment</p>
         <div class="wl-share"><p>Know someone who needs this? Share this page</p><div><a href="https://twitter.com/intent/tweet?text=Luca%20Bloom%20launches%20in%20the%20US%2C%20Canada%20and%20Mexico%20in%20mid-November.%20Pre-register%20here%3A&amp;url=https%3A%2F%2Fluca-bloom.com%2Fca%2F" target="_blank" rel="noopener">X</a><a href="https://www.facebook.com/sharer/sharer.php?u=https%3A%2F%2Fluca-bloom.com%2Fca%2F" target="_blank" rel="noopener">Facebook</a><a href="https://wa.me/?text=Luca%20Bloom%20launches%20in%20the%20US%2C%20Canada%20and%20Mexico%20in%20mid-November.%20Pre-register%20here%3A%20https%3A%2F%2Fluca-bloom.com%2Fca%2F" target="_blank" rel="noopener">WhatsApp</a><a href="mailto:?subject=Luca%20Bloom&amp;body=Luca%20Bloom%20launches%20in%20the%20US%2C%20Canada%20and%20Mexico%20in%20mid-November.%20Pre-register%20here%3A%20https%3A%2F%2Fluca-bloom.com%2Fca%2F">Email</a></div></div>
       </div>
       <a class="cta js-buy" href="mailto:lucabloom65@gmail.com?subject=I%20want%20Luca%20Bloom%20(Canada)&amp;body=Please%20let%20me%20know%20when%20Luca%20Bloom%20goes%20on%20sale.%0A%0ACountry%3A%20Canada">Pre-register by email
         <svg viewBox="0 0 20 20" aria-hidden="true"><path d="M7 4l6 6-6 6" fill="none" stroke="currentColor" stroke-width="2.6" stroke-linecap="round" stroke-linejoin="round"/></svg></a>
+      <p class="wl-alt">Email app not opening? Use <a href="https://mail.google.com/mail/?view=cm&amp;fs=1&amp;to=lucabloom65@gmail.com&amp;su=I%20want%20Luca%20Bloom%20(Canada)&amp;body=Please%20let%20me%20know%20when%20Luca%20Bloom%20goes%20on%20sale.%0A%0ACountry%3A%20Canada" target="_blank" rel="noopener">Gmail</a> · <a href="https://outlook.live.com/mail/0/deeplink/compose?to=lucabloom65@gmail.com&amp;subject=I%20want%20Luca%20Bloom%20(Canada)&amp;body=Please%20let%20me%20know%20when%20Luca%20Bloom%20goes%20on%20sale.%0A%0ACountry%3A%20Canada" target="_blank" rel="noopener">Outlook</a> or write to <span class="wl-addr">lucabloom65@gmail.com</span></p>
     </div>
   </div>
 </header>
@@ -684,10 +690,13 @@ body{letter-spacing:.01em}
         <p class="wl-count"><b>0</b><span>/ 30 pre-registered</span></p>
         <progress class="wl-bar" max="30" value="0" aria-label="0 of 30 pre-registered">0 of 30 pre-registered</progress>
         <p class="wl-n"><span>30 more to our pre-launch goal</span><span>Count as of October 6, 2026</span></p>
+        <p class="wl-deal">The more pre-registrations, the lower the launch price.</p>
+        <p class="wl-note">One email per person · No payment or commitment</p>
         <div class="wl-share"><p>Know someone who needs this? Share this page</p><div><a href="https://twitter.com/intent/tweet?text=Luca%20Bloom%20launches%20in%20the%20US%2C%20Canada%20and%20Mexico%20in%20mid-November.%20Pre-register%20here%3A&amp;url=https%3A%2F%2Fluca-bloom.com%2Fca%2F" target="_blank" rel="noopener">X</a><a href="https://www.facebook.com/sharer/sharer.php?u=https%3A%2F%2Fluca-bloom.com%2Fca%2F" target="_blank" rel="noopener">Facebook</a><a href="https://wa.me/?text=Luca%20Bloom%20launches%20in%20the%20US%2C%20Canada%20and%20Mexico%20in%20mid-November.%20Pre-register%20here%3A%20https%3A%2F%2Fluca-bloom.com%2Fca%2F" target="_blank" rel="noopener">WhatsApp</a><a href="mailto:?subject=Luca%20Bloom&amp;body=Luca%20Bloom%20launches%20in%20the%20US%2C%20Canada%20and%20Mexico%20in%20mid-November.%20Pre-register%20here%3A%20https%3A%2F%2Fluca-bloom.com%2Fca%2F">Email</a></div></div>
       </div>
       <a class="cta js-buy" href="mailto:lucabloom65@gmail.com?subject=I%20want%20Luca%20Bloom%20(Canada)&amp;body=Please%20let%20me%20know%20when%20Luca%20Bloom%20goes%20on%20sale.%0A%0ACountry%3A%20Canada">Pre-register by email
         <svg viewBox="0 0 20 20" aria-hidden="true"><path d="M7 4l6 6-6 6" fill="none" stroke="currentColor" stroke-width="2.6" stroke-linecap="round" stroke-linejoin="round"/></svg></a>
+      <p class="wl-alt">Email app not opening? Use <a href="https://mail.google.com/mail/?view=cm&amp;fs=1&amp;to=lucabloom65@gmail.com&amp;su=I%20want%20Luca%20Bloom%20(Canada)&amp;body=Please%20let%20me%20know%20when%20Luca%20Bloom%20goes%20on%20sale.%0A%0ACountry%3A%20Canada" target="_blank" rel="noopener">Gmail</a> · <a href="https://outlook.live.com/mail/0/deeplink/compose?to=lucabloom65@gmail.com&amp;subject=I%20want%20Luca%20Bloom%20(Canada)&amp;body=Please%20let%20me%20know%20when%20Luca%20Bloom%20goes%20on%20sale.%0A%0ACountry%3A%20Canada" target="_blank" rel="noopener">Outlook</a> or write to <span class="wl-addr">lucabloom65@gmail.com</span></p>
     </div>
   </div>
 </section>

diff --git a/en/index.html b/en/index.html
@@ -3,7 +3,7 @@
 <head>
 <meta charset="utf-8">
 <meta name="viewport" content="width=device-width, initial-scale=1, viewport-fit=cover">
-<meta http-equiv="Content-Security-Policy" content="default-src 'none'; script-src 'self'; style-src 'self' 'sha256-jr+99oMVcAtKtIUlC/3aKn5EhZTkRbJaXBN0lEQV9qo=' 'sha256-TT/tbT92qH6UzA/f+xUOgWA0x57Y7BPZlE8Y8ElzfiY=' 'sha256-i47gCdfb3YEuL87xKfQ+rVjdfSb1UfRIlp/G7Hq3QyM='; img-src 'self'; font-src 'self'; connect-src 'self'; manifest-src 'self'; media-src 'none'; frame-src 'none'; worker-src 'none'; object-src 'none'; base-uri 'none'; form-action 'none'; upgrade-insecure-requests; require-trusted-types-for 'script'; trusted-types 'none'">
+<meta http-equiv="Content-Security-Policy" content="default-src 'none'; script-src 'self'; style-src 'self' 'sha256-jr+99oMVcAtKtIUlC/3aKn5EhZTkRbJaXBN0lEQV9qo=' 'sha256-TT/tbT92qH6UzA/f+xUOgWA0x57Y7BPZlE8Y8ElzfiY=' 'sha256-vydwBAU0UPAaQI11OmLRjDPcPjJRwpMx7loPP8yBWZM='; img-src 'self'; font-src 'self'; connect-src 'self'; manifest-src 'self'; media-src 'none'; frame-src 'none'; worker-src 'none'; object-src 'none'; base-uri 'none'; form-action 'none'; upgrade-insecure-requests; require-trusted-types-for 'script'; trusted-types 'none'">
 <meta name="referrer" content="strict-origin-when-cross-origin">
 <title>Luca Bloom | Foreskin care tool that opens up to 70 mm</title>
 <meta name="description" content="Luca Bloom is a foreskin care tool. Turn the handle and the arms open smoothly up to 70 mm, then stay exactly where you stop, even when you let go. Discreet packaging. Available on Amazon UK and Amazon Australia.">
@@ -285,7 +285,11 @@ body{letter-spacing:.01em}
 .wl-bar::-moz-progress-bar{background:var(--gold);border-radius:99px}
 .wl-n{margin:0;display:flex;justify-content:space-between;gap:10px;flex-wrap:wrap;font-size:12.5px;color:var(--on-navy-muted)}
 .wl-n span:first-child{font-weight:700;color:var(--on-navy)}
-.wl-note{margin:12px 0 0;font-size:13px;line-height:1.7;color:var(--on-navy-muted);text-align:left}
+.wl-deal{margin:14px 0 0;font-size:17px;line-height:1.5;font-weight:900;color:var(--gold)}
+.wl-note{margin:6px 0 0;font-size:12.5px;line-height:1.6;color:var(--on-navy-muted)}
+.wl-alt{margin:10px 0 0;font-size:12.5px;line-height:1.7;color:var(--on-navy-muted);text-align:center}
+.wl-alt a{color:var(--on-navy);font-weight:700;text-decoration:underline;text-underline-offset:2px}
+.wl-addr{font-family:var(--font-en);font-weight:700;color:var(--on-navy);-webkit-user-select:all;user-select:all;overflow-wrap:anywhere}
 .wl-share{margin-top:14px;padding-top:12px;border-top:1px solid var(--navy-line)}
 .wl-share p{margin:0;font-size:13.5px;font-weight:700;color:var(--on-navy)}
 .wl-share div{margin-top:8px;display:flex;flex-wrap:wrap;justify-content:center;gap:8px}

diff --git a/tools/i18n/lp.css b/tools/i18n/lp.css
@@ -235,7 +235,11 @@ body{letter-spacing:.01em}
 .wl-bar::-moz-progress-bar{background:var(--gold);border-radius:99px}
 .wl-n{margin:0;display:flex;justify-content:space-between;gap:10px;flex-wrap:wrap;font-size:12.5px;color:var(--on-navy-muted)}
 .wl-n span:first-child{font-weight:700;color:var(--on-navy)}
-.wl-note{margin:12px 0 0;font-size:13px;line-height:1.7;color:var(--on-navy-muted);text-align:left}
+.wl-deal{margin:14px 0 0;font-size:17px;line-height:1.5;font-weight:900;color:var(--gold)}
+.wl-note{margin:6px 0 0;font-size:12.5px;line-height:1.6;color:var(--on-navy-muted)}
+.wl-alt{margin:10px 0 0;font-size:12.5px;line-height:1.7;color:var(--on-navy-muted);text-align:center}
+.wl-alt a{color:var(--on-navy);font-weight:700;text-decoration:underline;text-underline-offset:2px}
+.wl-addr{font-family:var(--font-en);font-weight:700;color:var(--on-navy);-webkit-user-select:all;user-select:all;overflow-wrap:anywhere}
 .wl-share{margin-top:14px;padding-top:12px;border-top:1px solid var(--navy-line)}
 .wl-share p{margin:0;font-size:13.5px;font-weight:700;color:var(--on-navy)}
 .wl-share div{margin-top:8px;display:flex;flex-wrap:wrap;justify-content:center;gap:8px}
